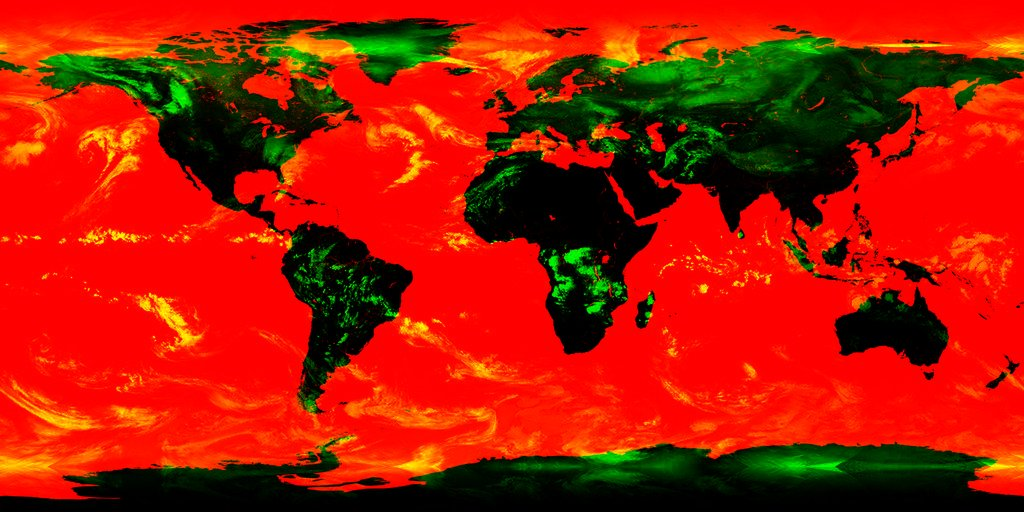
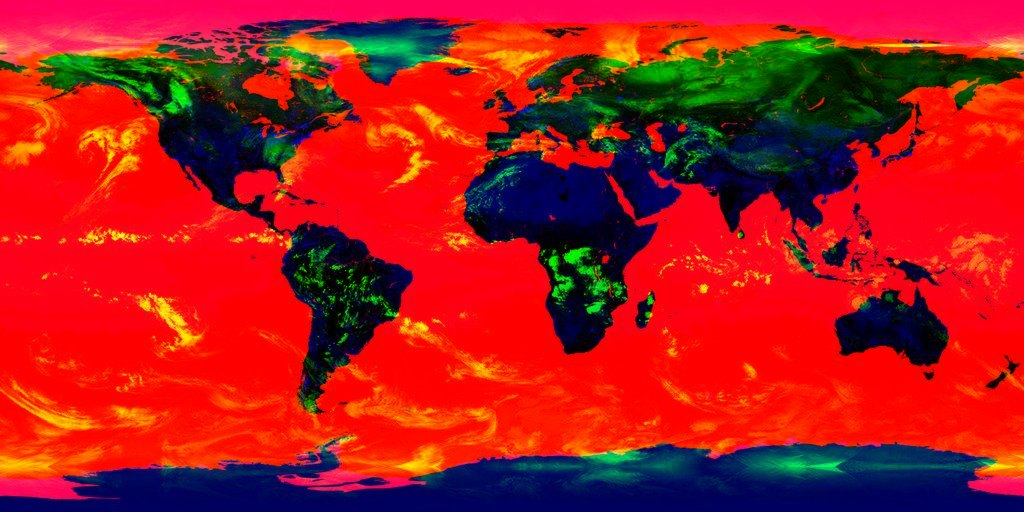
Заставка: космос с туманностью, карточки курсов на орбите, Земля с ночной стороной и огнями городов

diff --git a/docs/index.html b/docs/index.html
@@ -1,13 +1,13 @@
 <!DOCTYPE html>
 <html lang="ru">
 <head>
-<meta http-equiv="Content-Security-Policy" content="default-src 'self'; script-src 'self' 'sha256-LUTzErjhHnRrTSoHmUKFDpyNeV/4OUWpXzcFNClkA0I=' 'sha256-yzOm8umFKUw+z6OY0+pDIKJ1qoYWew1WSMKk9chScoY=' 'sha256-2DhQlPwhhmxBr67rykEOu8Zlsq2Eyq/ycHOBb7LogjE=' 'sha256-Wf8lqQGZYsiFUJbzxkqj3WrnuC64bcMSBHVcuC52k9w=' 'sha256-syvLtHbgGRd/ctDJcXg+UHjQHI4I6fDriypiguPJXdU=' https://telegram.org; style-src 'self' 'unsafe-inline' https://fonts.googleapis.com; font-src 'self' https://fonts.gstatic.com data:; img-src 'self' data: https://coin-images.coingecko.com https://assets.coingecko.com https://flagcdn.com https://*.githubusercontent.com; connect-src 'self' https://api.gateio.ws wss://api.gateio.ws wss://ws-feed.exchange.coinbase.com wss://ws.kraken.com wss://data-stream.binance.vision https://data-api.binance.vision https://open.er-api.com https://api.coinbase.com https://api.country.is https://get.geojs.io; base-uri 'none'; form-action 'none'; object-src 'none'">
+<meta http-equiv="Content-Security-Policy" content="default-src 'self'; script-src 'self' 'sha256-LUTzErjhHnRrTSoHmUKFDpyNeV/4OUWpXzcFNClkA0I=' 'sha256-yzOm8umFKUw+z6OY0+pDIKJ1qoYWew1WSMKk9chScoY=' 'sha256-hJ18BiGqkla8mPd1e7wLzB2Xl+QeZmrcy/yhkmBvZEY=' 'sha256-Wf8lqQGZYsiFUJbzxkqj3WrnuC64bcMSBHVcuC52k9w=' 'sha256-syvLtHbgGRd/ctDJcXg+UHjQHI4I6fDriypiguPJXdU=' https://telegram.org; style-src 'self' 'unsafe-inline' https://fonts.googleapis.com; font-src 'self' https://fonts.gstatic.com data:; img-src 'self' data: https://coin-images.coingecko.com https://assets.coingecko.com https://flagcdn.com https://*.githubusercontent.com; connect-src 'self' https://api.gateio.ws wss://api.gateio.ws wss://ws-feed.exchange.coinbase.com wss://ws.kraken.com wss://data-stream.binance.vision https://data-api.binance.vision https://open.er-api.com https://api.coinbase.com https://api.country.is https://get.geojs.io; base-uri 'none'; form-action 'none'; object-src 'none'">
 <meta name="referrer" content="no-referrer">
 
 <meta charset="UTF-8">
 <script>try{if(!matchMedia("(prefers-reduced-motion: reduce)").matches&&!sessionStorage.cr_intro)document.documentElement.classList.add("intro")}catch(e){}</script>
 <script>(function(){try{var m=localStorage.cr_theme||"dark",d=document.documentElement;if(m==="auto")m=matchMedia("(prefers-color-scheme: light)").matches?"light":"dark";d.setAttribute("data-theme",m==="light"?"light":"dark")}catch(e){}})()</script>
-<meta name="app-version" content="3838a9571f">
+<meta name="app-version" content="a79b502c9f">
 <meta name="viewport" content="width=device-width,initial-scale=1,viewport-fit=cover">
 <meta name="theme-color" content="#000000">
 <title>CIS Rates: курсы валют и крипто СНГ онлайн 24/7</title>
@@ -86,6 +86,23 @@ html.intro #hdrEarth{visibility:hidden}
 html[data-theme=light] #intro{background:radial-gradient(120% 80% at 50% 38%,#f6f9ff 0%,#e9effb 60%,#dfe7f7 100%)}
 #introSpin{position:fixed;left:0;top:0;z-index:203;border-radius:50%;display:block;pointer-events:none;opacity:0}
 #introEarth{position:fixed;left:0;top:0;z-index:202;border-radius:50%;object-fit:cover;display:block;transform-origin:top left;will-change:transform;pointer-events:none;user-select:none;-webkit-user-drag:none}
+#introSky{position:absolute;inset:-2%;pointer-events:none;background:url(assets/sky.jpg) center/cover no-repeat;opacity:0;transition:opacity .9s ease;will-change:transform}
+#introSky.on{opacity:1;animation:skyDrift 40s ease-in-out infinite alternate}
+@keyframes skyDrift{from{transform:translate3d(-8px,6px,0) scale(1.03)}to{transform:translate3d(8px,-6px,0) scale(1.03)}}
+html[data-theme=light] #introSky{display:none}
+#introRates{position:fixed;inset:0;z-index:204;pointer-events:none}
+.ir{position:absolute;left:0;top:0;display:flex;align-items:center;gap:9px;padding:9px 14px 9px 10px;border-radius:999px;color:#f5f7ff;font:600 13px/1.1 -apple-system,BlinkMacSystemFont,"SF Pro Display",Inter,"Segoe UI",Roboto,system-ui,sans-serif;white-space:nowrap;
+  background:linear-gradient(145deg,rgba(255,255,255,.17),rgba(255,255,255,.06) 55%,rgba(255,255,255,.04));box-shadow:inset 0 0 0 1px rgba(255,255,255,.14),inset 0 1px 0 rgba(255,255,255,.22),0 10px 28px rgba(2,4,18,.5);opacity:0;will-change:transform,opacity}
+.ir .ic{width:26px;height:26px;border-radius:50%;flex:none;display:grid;place-items:center;font:700 11px/1 system-ui,sans-serif;color:#0b1020;background:#fff;overflow:hidden}
+.ir .ic img{width:100%;height:100%;object-fit:cover;display:block}
+.ir .tx{display:flex;flex-direction:column;gap:3px;min-width:0}
+.ir .tx b{font-weight:700;font-size:12px;letter-spacing:.04em;color:rgba(235,242,255,.78)}
+.ir .tx span{font-variant-numeric:tabular-nums;font-size:14px}
+.ir .ch{font-size:11px;font-weight:700;margin-left:2px;font-variant-numeric:tabular-nums}
+.ir .ch.u{color:rgb(52,227,154)}.ir .ch.d{color:rgb(255,93,115)}
+#introTitle{position:fixed;left:0;right:0;z-index:201;text-align:center;pointer-events:none;color:#f5f7ff;opacity:0}
+#introTitle b{display:block;font:800 22px/1.1 -apple-system,BlinkMacSystemFont,"SF Pro Display",Inter,system-ui,sans-serif;letter-spacing:.02em}
+#introTitle span{display:block;margin-top:7px;font:500 12.5px/1.2 -apple-system,BlinkMacSystemFont,Inter,system-ui,sans-serif;color:rgba(190,212,255,.78);letter-spacing:.06em;text-transform:uppercase}
 #introStars{position:absolute;inset:0;pointer-events:none;opacity:.9;
   background-image:radial-gradient(1.2px 1.2px at 12% 18%,#fff,transparent),radial-gradient(1px 1px at 78% 12%,#cfe0ff,transparent),radial-gradient(1.4px 1.4px at 34% 72%,#fff,transparent),radial-gradient(1px 1px at 88% 64%,#fff,transparent),radial-gradient(1.2px 1.2px at 62% 86%,#bcd2ff,transparent),radial-gradient(1px 1px at 22% 44%,#fff,transparent),radial-gradient(1px 1px at 93% 32%,#fff,transparent),radial-gradient(1.3px 1.3px at 50% 8%,#dbe7ff,transparent),radial-gradient(1px 1px at 6% 82%,#fff,transparent),radial-gradient(1px 1px at 71% 48%,#fff,transparent),radial-gradient(1.2px 1.2px at 42% 30%,#fff,transparent),radial-gradient(1px 1px at 84% 90%,#cfe0ff,transparent),radial-gradient(1px 1px at 16% 60%,#fff,transparent),radial-gradient(1.2px 1.2px at 58% 62%,#fff,transparent),radial-gradient(1px 1px at 30% 6%,#fff,transparent),radial-gradient(1px 1px at 96% 78%,#fff,transparent)}
 html[data-theme=light] #introStars{opacity:0}
@@ -519,7 +536,7 @@ html[data-theme=light].lite .seg,html[data-theme=light].lite .hdr-btn{background
 </style>
 </head>
 <body>
-<div id="intro" aria-hidden="true"><div id="introStars"></div><div id="introGlow"></div><div id="introBar"><i></i></div><div id="introPct"><span>CIS Rates</span><b>0%</b></div><img id="introEarth" src="assets/earth-512.webp" alt="" decoding="async" draggable="false"><canvas id="introSpin" width="192" height="192" aria-hidden="true"></canvas></div>
+<div id="intro" aria-hidden="true"><div id="introSky"></div><div id="introStars"></div><div id="introGlow"></div><div id="introBar"><i></i></div><div id="introPct"><span>CIS Rates</span><b>0%</b></div><img id="introEarth" src="assets/earth-512.webp" alt="" decoding="async" draggable="false"><canvas id="introSpin" width="192" height="192" aria-hidden="true"></canvas><div id="introRates"></div><div id="introTitle"><b>CIS Rates</b><span>курсы валют и крипты</span></div></div>
 <div class="bg" aria-hidden="true"></div>
 <script>
 // ===== заставка: ОДНА Земля. Большая по центру, затем та же картинка улетает на место логотипа в шапке =====
@@ -561,26 +578,31 @@ function makeEarthGL(cv,dayImg,wcImg){
     vec3 c0=texture2D(D,uv).rgb;
     vec3 col=c0;
     if(Q>.5){vec3 bl=(texture2D(D,uv+vec2(TS,0.)).rgb+texture2D(D,uv-vec2(TS,0.)).rgb+texture2D(D,uv+vec2(0.,TS)).rgb+texture2D(D,uv-vec2(0.,TS)).rgb)*.25;
-      col=clamp(c0+(c0-bl)*.9,0.,1.);}                                   // unsharp: возвращает мелкий контраст, потерянный при растяжении карты
+      col=clamp(c0+(c0-bl)*.9,0.,1.);}
+    col=pow(col,vec3(.93))*vec3(1.04,1.0,.97);                                   // unsharp: возвращает мелкий контраст, потерянный при растяжении карты
     vec4 mk=texture2D(M,uv);float water=mk.r;
     vec2 sp2=vec2(lo/(2.*PI)+.5+CA/(2.*PI),la/PI+.5);
     float cloud=texture2D(M,uc).g;
     float dn=.5;if(Q>.5)dn=fbm(sp2*vec2(420.,210.));                                     // мелкая фактура, привязана к поверхности и вращается вместе с ней
     cloud=clamp(cloud*(.78+.44*dn)+(cloud>.08?(dn-.5)*.10:0.),0.,1.);
     if(Q>.5)col*=1.+(fbm(vec2(lo/(2.*PI)+A/(2.*PI),la/PI)*vec2(900.,450.))-.5)*.10*water;   // едва заметная рябь океана
-    vec3 L=normalize(vec3(-.25,.35,.90));float ndl=dot(n,L);float t=clamp((ndl+.12)/.55,0.,1.);float lit=t*t*(3.-2.*t);
-    float lt=.16+.84*lit;
+    vec3 L=normalize(vec3(-.90,.28,.34));float ndl=dot(n,L);float t=clamp((ndl+.02)/.40,0.,1.);float lit=t*t*(3.-2.*t);
+    float twi=smoothstep(-.20,.10,ndl)*(1.-smoothstep(.10,.34,ndl));          // сумеречная полоса: тёплая кайма вдоль терминатора
+    float lt=.022+.978*lit;
     col*=lt*(1.-.28*cloud*lit);
     col=mix(col,vec3(lt),.85*cloud);
+    float city=mk.b*(1.-smoothstep(.02,.30,lit))*(1.-.8*cloud);
+    col+=city*vec3(1.,.74,.38)*1.15;
+    col+=twi*vec3(.28,.12,.03)*.55*(.35+.65*(1.-cloud));
     vec3 H=normalize(L+vec3(0.,0.,1.));float sp=pow(max(0.,dot(n,H)),55.);
     float wv=water*(1.-cloud);
     float oc=.5;if(Q>.5)oc=fbm(vec2(lo/(2.*PI)+A/(2.*PI),la/PI)*vec2(14.,7.));                           // крупные пятна: глубины и течения
-    col=mix(col,col*vec3(.78,.92,1.18)*(.85+.45*oc),.55*wv);                                 // тон океана живёт, а не одна плоская заливка
+    col=mix(col,col*vec3(.55,.86,1.42)*(.80+.50*oc),.70*wv);                                 // тон океана живёт, а не одна плоская заливка
     float fr=pow(1.-Z,3.);col+=wv*fr*vec3(.10,.17,.28)*(.35+.65*lit);                         // Френель: у края вода отражает небо
     float sp2b=pow(max(0.,dot(n,H)),9.);                                                     // широкий мягкий блик + узкий яркий
-    col+=wv*(sp*.55+sp2b*.10)*vec3(1.,.96,.88);
-    float rim=pow(clamp((rr-.86)/.14,0.,1.),1.8)*(.25+.75*lit);
-    vec3 at=vec3(.42,.66,1.)*rim*.8;col=1.-(1.-clamp(col,0.,1.))*(1.-at);
+    col+=wv*(sp*.38+sp2b*.05)*vec3(1.,.96,.88)*lit;
+    float rim=pow(clamp((rr-.80)/.20,0.,1.),1.6)*(.10+.90*lit);
+    vec3 at=vec3(.36,.62,1.)*rim*.95;col=1.-(1.-clamp(col,0.,1.))*(1.-at);
     col*=.80+.20*Z;
     gl_FragColor=vec4(col*a,a);
   }`;
@@ -600,6 +622,32 @@ function makeEarthGL(cv,dayImg,wcImg){
     gl.uniform1f(uA,angle);gl.uniform1f(uCA,angle*1.06);gl.uniform1f(uLAT,(latDeg===undefined?12:latDeg)*Math.PI/180);gl.uniform1f(uPX,1/(cv.width/2));gl.uniform1f(uTS,1/dayImg.width*.9);gl.uniform1f(uQ,qual);gl.drawArrays(gl.TRIANGLE_STRIP,0,4)}};
 }
 
+  // ---- орбитальные карточки курсов: данные из кэша приложения (rcache); без кэша показываем только названия пар, цифр не выдумываем ----
+  const RT={el:[],items:[],on:false,t0:0};
+  function rtData(){
+    const out=[];try{const c=JSON.parse(localStorage.rcache||'null'),r=c&&c.r;
+      const fx=(code,flag)=>{const w=r&&r.world,v=w&&w[code];return v?{k:code+'/USD',v:(1/v>=10?(1/v).toFixed(2):(1/v).toFixed(3)),ch:null,fl:flag}:{k:code+'/USD',v:'',ch:null,fl:flag}};
+      const cr=sym=>{const a=r&&r.crypto&&r.crypto.find(x=>x.sym===sym);return a?{k:sym+'/USD',v:a.usd>=1000?Math.round(a.usd).toLocaleString('ru-RU'):a.usd.toFixed(2),ch:a.ch24h,im:a.img,sym}:{k:sym+'/USD',v:'',ch:null,sym}};
+      out.push(fx('EUR','eu'),cr('BTC'),cr('ETH'),fx('GBP','gb'))}catch(e){}
+    return out.length?out:[{k:'EUR/USD',v:''},{k:'BTC/USD',v:'',sym:'BTC'},{k:'ETH/USD',v:'',sym:'ETH'},{k:'GBP/USD',v:''}]}
+  function rtBuild(){
+    const box=document.getElementById('introRates');if(!box||RT.on||cal0)return;RT.items=rtData();
+    RT.items.forEach((d,i)=>{const e=document.createElement('div');e.className='ir';
+      const ic=d.im?'<span class="ic"><img src="'+d.im+'" alt="" referrerpolicy="no-referrer"></span>':(d.fl?'<span class="ic"><img src="flags/'+d.fl+'.png" alt=""></span>':'<span class="ic">'+(d.sym||d.k.slice(0,1))+'</span>');
+      const chg=d.ch==null?'':'<span class="ch '+(d.ch>=0?'u':'d')+'">'+(d.ch>=0?'+':'')+d.ch.toFixed(1)+'%</span>';
+      e.innerHTML=ic+'<span class="tx"><b>'+d.k+'</b>'+(d.v?'<span>'+d.v+'</span>':'')+'</span>'+chg;box.appendChild(e);RT.el.push(e)});
+    RT.on=true}
+  // положение на эллипсе вокруг Земли: фаза ph (0..1) + время; z>0 впереди Земли, z<0 за ней (скрывается и уменьшается)
+  function rtFrame(tm,cx,cy,R){
+    const n=RT.el.length,W=vw(),fade=Math.min(1,tm/1.2);
+    for(let i=0;i<n;i++){const e=RT.el[i];
+      const w=e.offsetWidth||120,h=e.offsetHeight||40;
+      const ph=(i/n+tm*0.07)%1,a=ph*Math.PI*2,x=Math.cos(a),z=Math.sin(a);               // z: -1 далеко за Землёй, +1 перед ней
+      // горизонтальный размах ограничен шириной экрана: карточка целиком остаётся в видимой зоне (отступ 10 px)
+      const rx=Math.min(R*1.22,W/2-w*.5*(.8+.22*z)-10),ry=R*.46,px=cx+x*rx,py=cy+z*ry+R*.18;
+      const sc=.80+.22*z,op=Math.max(0,Math.min(1,(z+.55)/.9));                          // за Землёй мягко тают, перед ней яркие
+      e.style.transform='translate3d('+(px-w/2).toFixed(1)+'px,'+(py-h/2).toFixed(1)+'px,0) scale('+sc.toFixed(3)+')';
+      e.style.opacity=(op*fade).toFixed(3);e.style.zIndex=z>0?'1':'0'}}
   // ---- звук заставки (10 с): пробуем сразу, при запрете браузера включаем по первому касанию с нужной секунды; на выходе плавно гасим ----
   const SND={a:null,on:false,t0:0,vol:.85};
   function sndInit(){if(cal0)return;try{const a=new Audio('assets/loading.mp3');a.preload='auto';a.volume=0;a.loop=false;a.setAttribute('playsinline','');SND.a=a}catch(e){SND.a=null}}
@@ -645,6 +693,8 @@ function makeEarthGL(cv,dayImg,wcImg){
       // шкала: заполняется INTRO_MS (10 с), проценты считаются от того же прогресса
       const INTRO_MS=10000;                                                  // сколько секунд идёт заполнение шкалы (меняется одной цифрой)
       const T=cal0?0:INTRO_MS,t0=performance.now();
+      const sky=document.getElementById('introSky'),ttl=document.getElementById('introTitle');
+      if(!cal0){if(sky)sky.classList.add('on');rtBuild();if(ttl){const S=size();ttl.style.top=Math.round(vh()*.42-S/2-72)+'px';ttl.animate([{opacity:0,transform:'translateY(8px)'},{opacity:1,transform:'translateY(0)'}],{duration:800,delay:250,easing:'ease-out',fill:'forwards'})}}
       SND.t0=t0;if(SND.a){SND_EV.forEach(n=>addEventListener(n,sndGesture,true));sndStart()}   // пробуем сразу; если запрещено, сыграет с первого касания
       const perf={tier:0,n:0,sum:0,last:0,from:0};
       // авто-деградация по реальной частоте кадров на этом устройстве: окно в 40 кадров; средний кадр >20 мс (<50 к/с) => следующий уровень
@@ -657,12 +707,14 @@ function makeEarthGL(cv,dayImg,wcImg){
       const TURNS=1;                                                         // один спокойный оборот за заставку; к концу замедляется и встаёт ровно на ракурс значка
       const K0=.85,W=1/(K0+(1-K0)/2),spinQ=k=>{if(k>=1)return 1;if(k<K0)return k*W;const u=k-K0;return W*(K0+u-u*u/(2*(1-K0)))};
       await new Promise(res=>{(function step(){const now=performance.now(),k=T?Math.min(1,(now-t0)/T):1,e=T>3000?k:1-Math.pow(1-k,2);fill.style.transform='scaleX('+e.toFixed(3)+')';pct.lastElementChild.textContent=Math.round(e*100)+'%';
+        if(RT.on&&!flying){const S=size();rtFrame((now-t0)/1000,vw()/2,vh()*.42,S/2)}
         if(spinOK){spinGL.draw(REST+spinQ(k)*TURNS*2*Math.PI,LAT);
           perfStep(now);}
         k<1?requestAnimationFrame(step):res()})()});
       if(spinOK){spin.width=spin.height=512;spinGL.setQ(1);spinGL.draw(REST,LAT)}            // финал на неподвижной Земле: буфер 512 и ровно ракурс значка (его рисовал тот же шейдер)
       await sleep(cal0?0:180);
       flying=true;
+      [document.getElementById('introRates'),document.getElementById('introTitle')].forEach(e=>e&&e.animate([{opacity:1},{opacity:0}],{duration:300,easing:'ease-out',fill:'forwards'}));
       sndStop();
       place();
       if(spinOK){spin.style.display='none'}                                   // вращение закончено: дальше летит тот же кадр (<img>) на место значка
